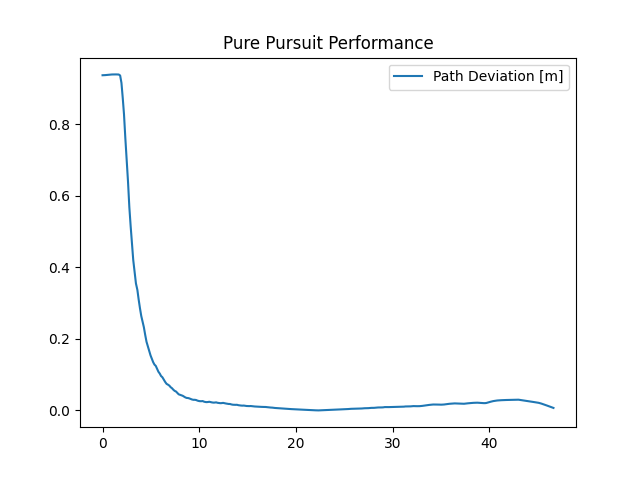
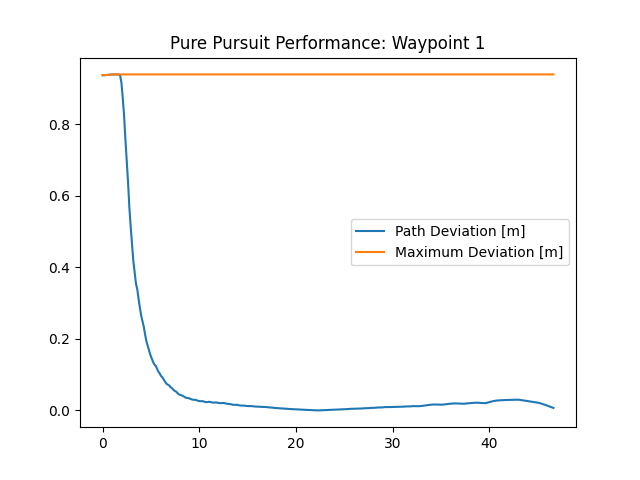
graphs for errors

Changed region(s): [[0.1562, 0.0625, 0.9062, 0.1875], [0.5625, 0.4688, 0.9062, 0.5625]]

diff --git a/analysis/plots/make_rosbag_plot.py b/analysis/plots/make_rosbag_plot.py
@@ -3,17 +3,41 @@ import pandas as pd
 import numpy as np
 
 if __name__ == '__main__':
-    error_path = '~/catkin_ws/src/Motion-Planning/analysis/rosbags/waypoint_navigation/first_waypoint_pp_error.csv'
-    max_error_path = '~/catkin_ws/src/Motion-Planning/analysis/rosbags/waypoint_navigation/first_waypoint_pp_max_error.csv'
+    error_path_waypoint1 = '~/catkin_ws/src/Motion-Planning/analysis/rosbags/waypoint_navigation/first_waypoint_pp_error.csv'
+    max_error_path_waypoint1 = '~/catkin_ws/src/Motion-Planning/analysis/rosbags/waypoint_navigation/first_waypoint_pp_max_error.csv'
+    error_path_waypoint2 = '~/catkin_ws/src/Motion-Planning/analysis/rosbags/waypoint_navigation/second_waypoint_pp_error.csv'
+    max_error_path_waypoint2 = '~/catkin_ws/src/Motion-Planning/analysis/rosbags/waypoint_navigation/second_waypoint_pp_max_error.csv'
 
+    # get the data from for both waypoints
     columns = ["time", "field_data"]
-    df_path_error = pd.read_csv(error_path, usecols=columns)
-    time_initial = df_path_error.time[0]
-    time = (np.array(df_path_error.time) - time_initial)/1e9
-    path_deviation = df_path_error.field_data
-    plt.title("Pure Pursuit Performance")
-    plt.plot(time, path_deviation, label="Path Deviation [m]")
-    # plt.plot(time deviation, label="Maximum Deviation [m]")
+    df_path_error1 = pd.read_csv(error_path_waypoint1, usecols=columns)
+    df_path_max_error1 = pd.read_csv(max_error_path_waypoint1, usecols=columns)
+    df_path_error2 = pd.read_csv(error_path_waypoint2, usecols=columns)
+    df_path_max_error2 = pd.read_csv(max_error_path_waypoint2, usecols=columns)
+
+    # get time data
+    time_initial1 = df_path_error1.time[0]
+    time1 = (np.array(df_path_error1.time) - time_initial1)/1e9
+    time_initial2 = df_path_error2.time[0]
+    time2 = (np.array(df_path_error2.time) - time_initial2)/1e9
+
+    # get deviation data
+    path_deviation1 = df_path_error1.field_data
+    path_max_deviation1 = df_path_max_error1.field_data
+    path_deviation2 = df_path_error2.field_data
+    path_max_deviation2 = df_path_max_error2.field_data
+
+
+    fig1 = plt.figure()
+    plt.title("Pure Pursuit Performance: Waypoint 1")
+    plt.plot(time1, path_deviation1, label="Path Deviation [m]")
+    plt.plot(time1, path_max_deviation1, label="Maximum Deviation [m]")
     plt.legend()
     plt.savefig('PP_waypoint1')
-    # plt.show()
+
+    fig2 = plt.figure()
+    plt.title("Pure Pursuit Performance: Waypoint 2")
+    plt.plot(time2, path_deviation2, label="Path Deviation [m]")
+    plt.plot(time2, path_max_deviation2, label="Maximum Deviation [m]")
+    plt.legend()
+    plt.savefig('PP_waypoint2')
